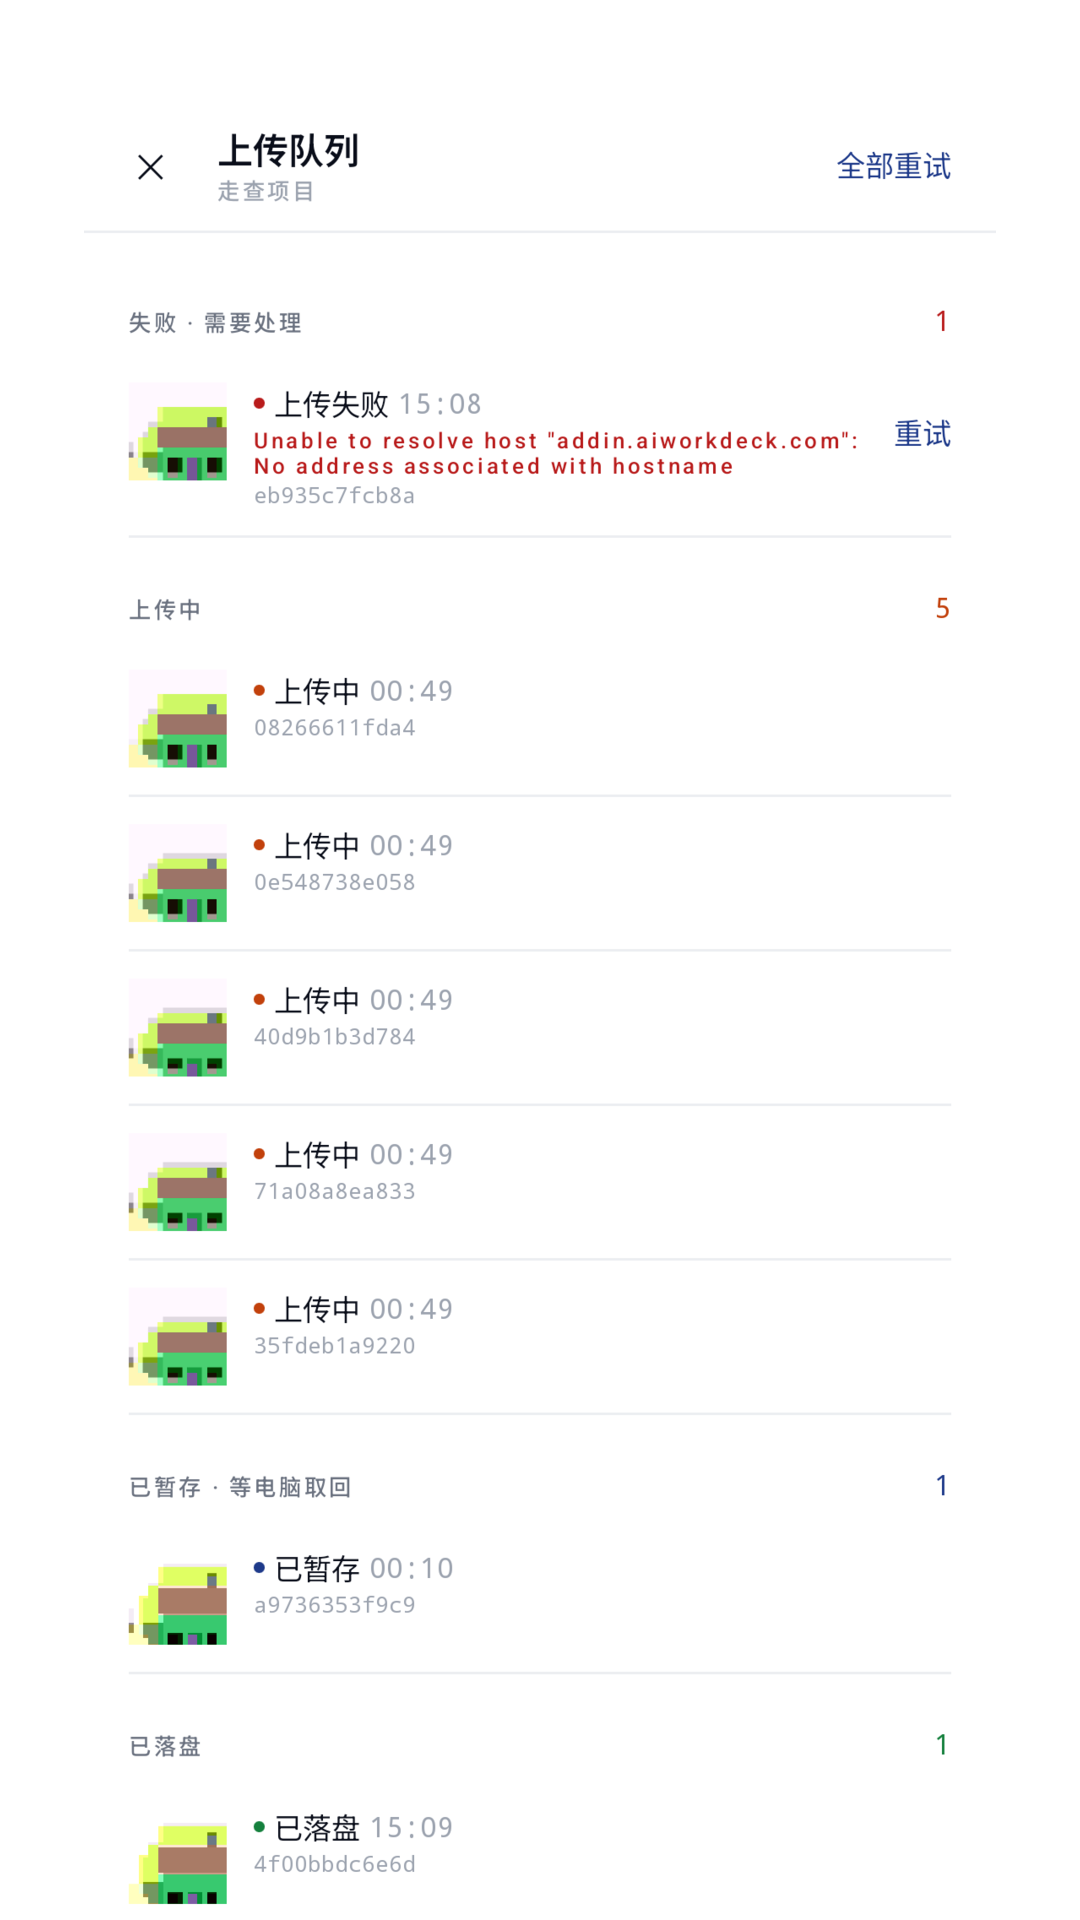
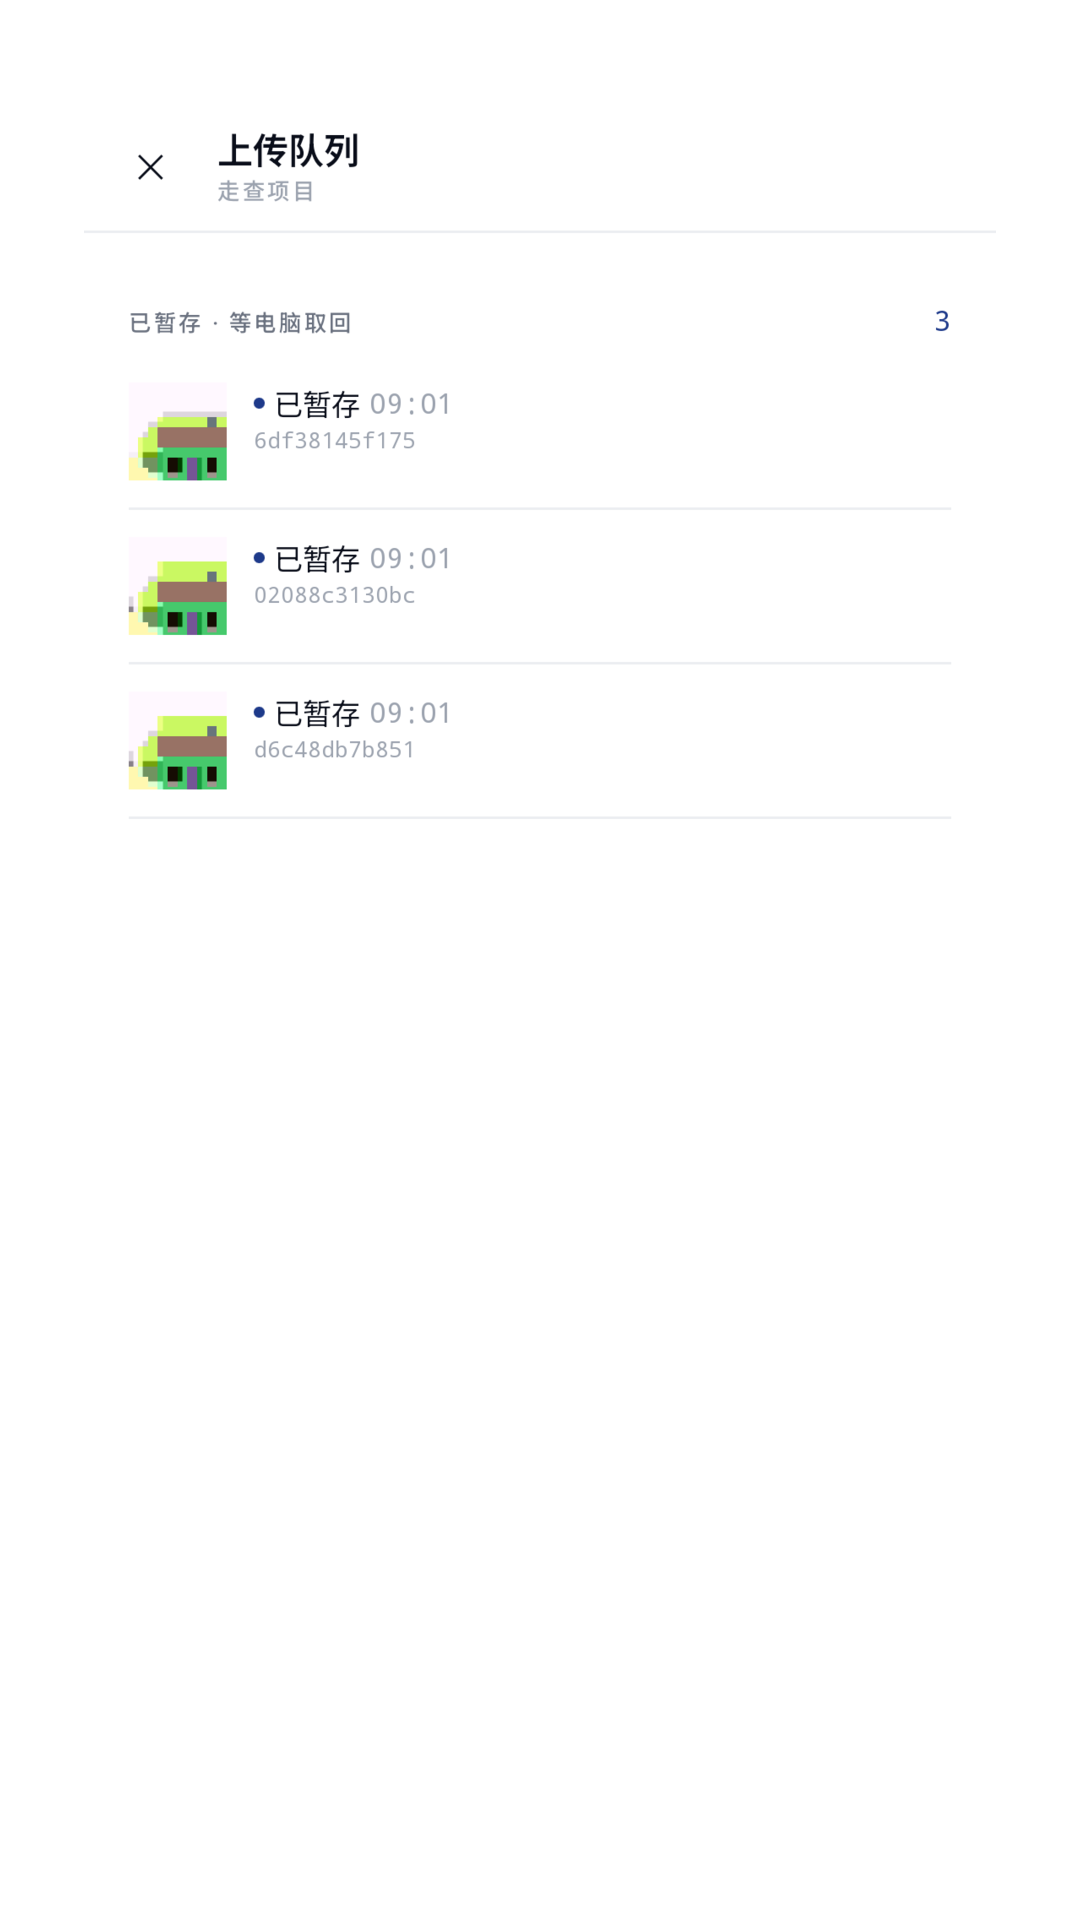
fix(android): 商店材料复审修复——手机号申报、真实登录/首页/队列截图（dev-board#402）
data-safety.md：LoginScreen.kt 的 MethodPicker 不按 flavor 限制，国际版界面同样可切到手机号
验证码登录，此前「国际版不收集手机号」的判断有误，订正为二选一均收集。

截图：07-login.png 此前源文件实为「选择项目」页的重复图，用真机流程（uninstall 释出登录态、
installCnDebug、审核账号登录/或 run-as 灌 selectedProject 跳过易超时的项目拉取）重录真实登录页；
01-home.png / 04-queue.png 此前带飞行模式图标与网络错误 toast，关闭飞行模式、登录后用模拟器测试
摄像头拍 3 张填出真实上传队列（已暂存 × 3，无失败无错误 toast）后重新截取，同一套裁剪/letterbox
流水线重新生成两套尺寸。

diff --git a/android/store/data-safety.md b/android/store/data-safety.md
@@ -18,8 +18,8 @@
 ### Personal info（个人信息）
 | 数据类型 | 是否收集 | 是否共享 | 用途 | 是否可选 | 备注 |
 |---|---|---|---|---|---|
-| Email address | 是（国际版账号注册/登录走邮箱验证码） | 否 | 账号功能（Account management） | 否，注册必需 | |
-| Phone number | 否（国际版走邮箱；仅国内版走手机号，国内版不在 Play 上架范围内） | 否 | — | — | |
+| Email address | 是 | 否 | 账号功能（Account management） | 是，二选一——登录页 `MethodPicker`（`LoginScreen.kt`）在任何 flavor 下都能在邮箱/手机号之间自由切换，`BuildConfig.DEFAULT_LOGIN` 只决定默认选中哪一种，不限制能不能切到另一种；用户选邮箱验证码登录时必需，选手机号登录时不涉及 | 国际版默认邮箱（`DEFAULT_LOGIN="mail"`） |
+| Phone number | 是——**此前草稿误判为「国际版不收集」，已订正**：`LoginScreen.kt` 的方式切换不按 flavor 限制，国际版界面同样提供手机号验证码登录选项 | 否 | 账号功能（Account management） | 是，二选一，理由同上；用户选手机号验证码登录时必需，选邮箱登录时不涉及 | 国内版默认手机号（`DEFAULT_LOGIN="sms"`）；国际版虽默认邮箱，但 UI 未屏蔽手机号选项，Play 端需如实申报为「收集」 |
 | User IDs | 是（账号会话标识、`session token`） | 否 | 账号功能、App functionality | 否 | 存于设备 `EncryptedSharedPreferences`，不进系统备份 |
 
 ### Location（位置信息）
